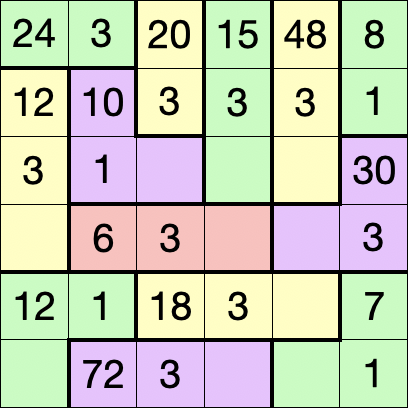
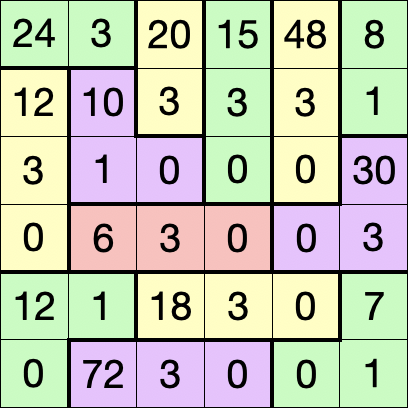
Include empty cell description in cage documentation.

diff --git a/Sources/PuzzleCoding/Documentation.docc/CageContentTransform.md b/Sources/PuzzleCoding/Documentation.docc/CageContentTransform.md
@@ -26,7 +26,7 @@ A cage clue, for example the 24 in A1 always appears in the first cell of the ca
 For KenDoku and KenKen the second cell of a cage (when there is more than one cell in the cage) contains the
 operator. The second cell is the cell to the right of the clue if there is a cell to the right, else the cell below the clue.
 
-Finally we convert the operators to numbers.
+Finally we convert the operators and empty cells to numbers.
 
 @Row {
     @Column {
